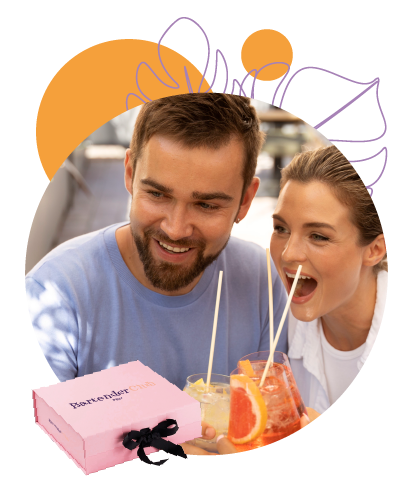
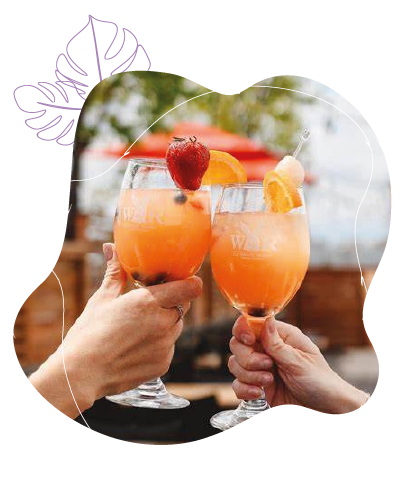
Reemplace fotos y textos

diff --git a/index.html b/index.html
@@ -151,8 +151,8 @@ las mejores recetas de tragos con ingredientes seleccionados.</p>
                     <img class="img-fluid" src="img/Como funciona 1-01.png" alt="">
                     <div class="team-text">
                         <div class="team-title">
-                            <h5>Agosto</h5>
-                            <span>Peach Rose Sangría</span>
+                            <h5>Seleccioná tu plan</h5>
+                            <span>Elegí el plan que más te guste</span>
                         </div>
                         <div class="team-social">
                             <a class="btn btn-square btn-light rounded-circle" href=""><i class="fab fa-facebook-f"></i></a>
@@ -167,8 +167,8 @@ las mejores recetas de tragos con ingredientes seleccionados.</p>
                     <img class="img-fluid" src="img/Como funciona 2-01.png" alt="">
                     <div class="team-text">
                         <div class="team-title">
-                            <h5>Julio</h5>
-                            <span>Designation</span>
+                            <h5>Armamos tu box</h5>
+                            <span>Hacemos una seleección premium de la  materia prima</span>
                         </div>
                         <div class="team-social">
                             <a class="btn btn-square btn-light rounded-circle" href=""><i class="fab fa-facebook-f"></i></a>
@@ -183,8 +183,8 @@ las mejores recetas de tragos con ingredientes seleccionados.</p>
                     <img class="img-fluid" src="img/Como funciona 3-01.png" alt="">
                     <div class="team-text">
                         <div class="team-title">
-                            <h5>Junio</h5>
-                            <span>Designation</span>
+                            <h5>Llega a tu casa</h5>
+                            <span>El primer dia del mes, la box va a estar tocando tu puerta</span>
                         </div>
                         <div class="team-social">
                             <a class="btn btn-square btn-light rounded-circle" href=""><i class="fab fa-facebook-f"></i></a>
@@ -199,8 +199,8 @@ las mejores recetas de tragos con ingredientes seleccionados.</p>
                     <img class="img-fluid" src="img/Como funciona 4-01.png" alt="">
                     <div class="team-text">
                         <div class="team-title">
-                            <h5>Mayo</h5>
-                            <span>Designation</span>
+                            <h5>Creá tu propio sabor</h5>
+                            <span>Sorprendete con el trago del mes y crealo con tus manos</span>
                         </div>
                         <div class="team-social">
                             <a class="btn btn-square btn-light rounded-circle" href=""><i class="fab fa-facebook-f"></i></a>
